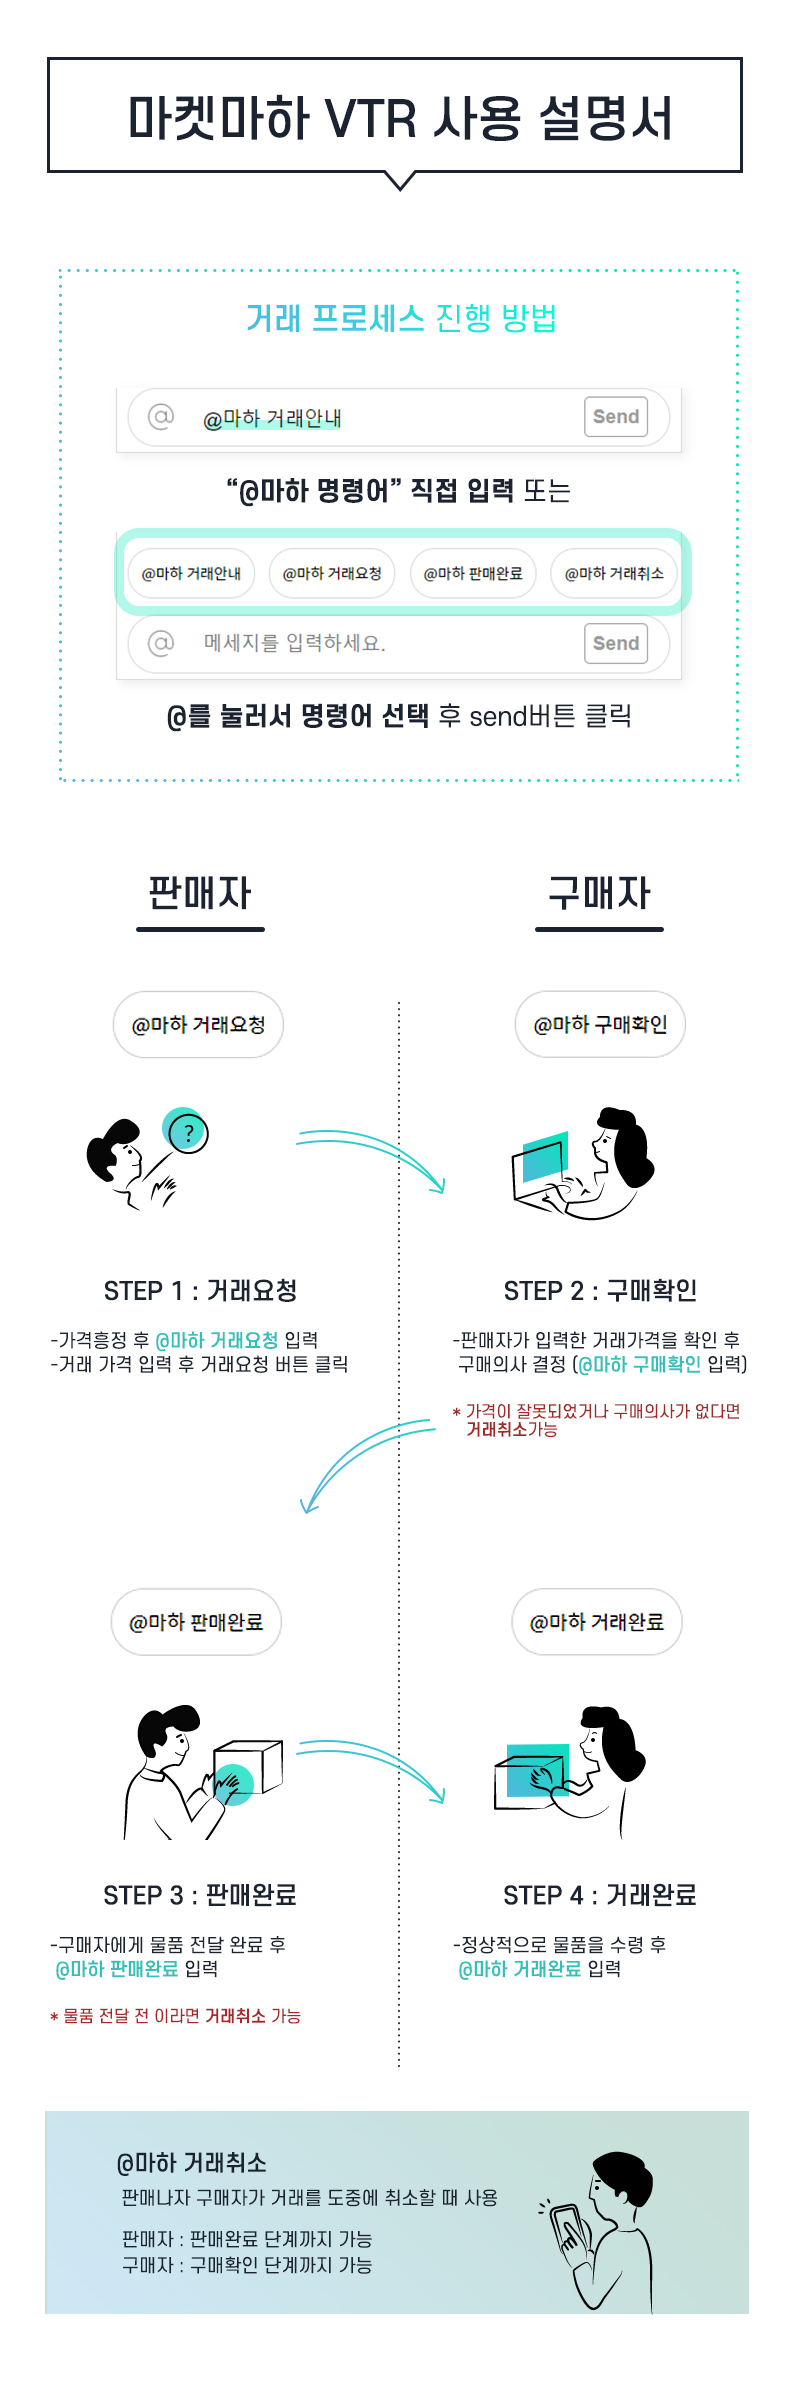
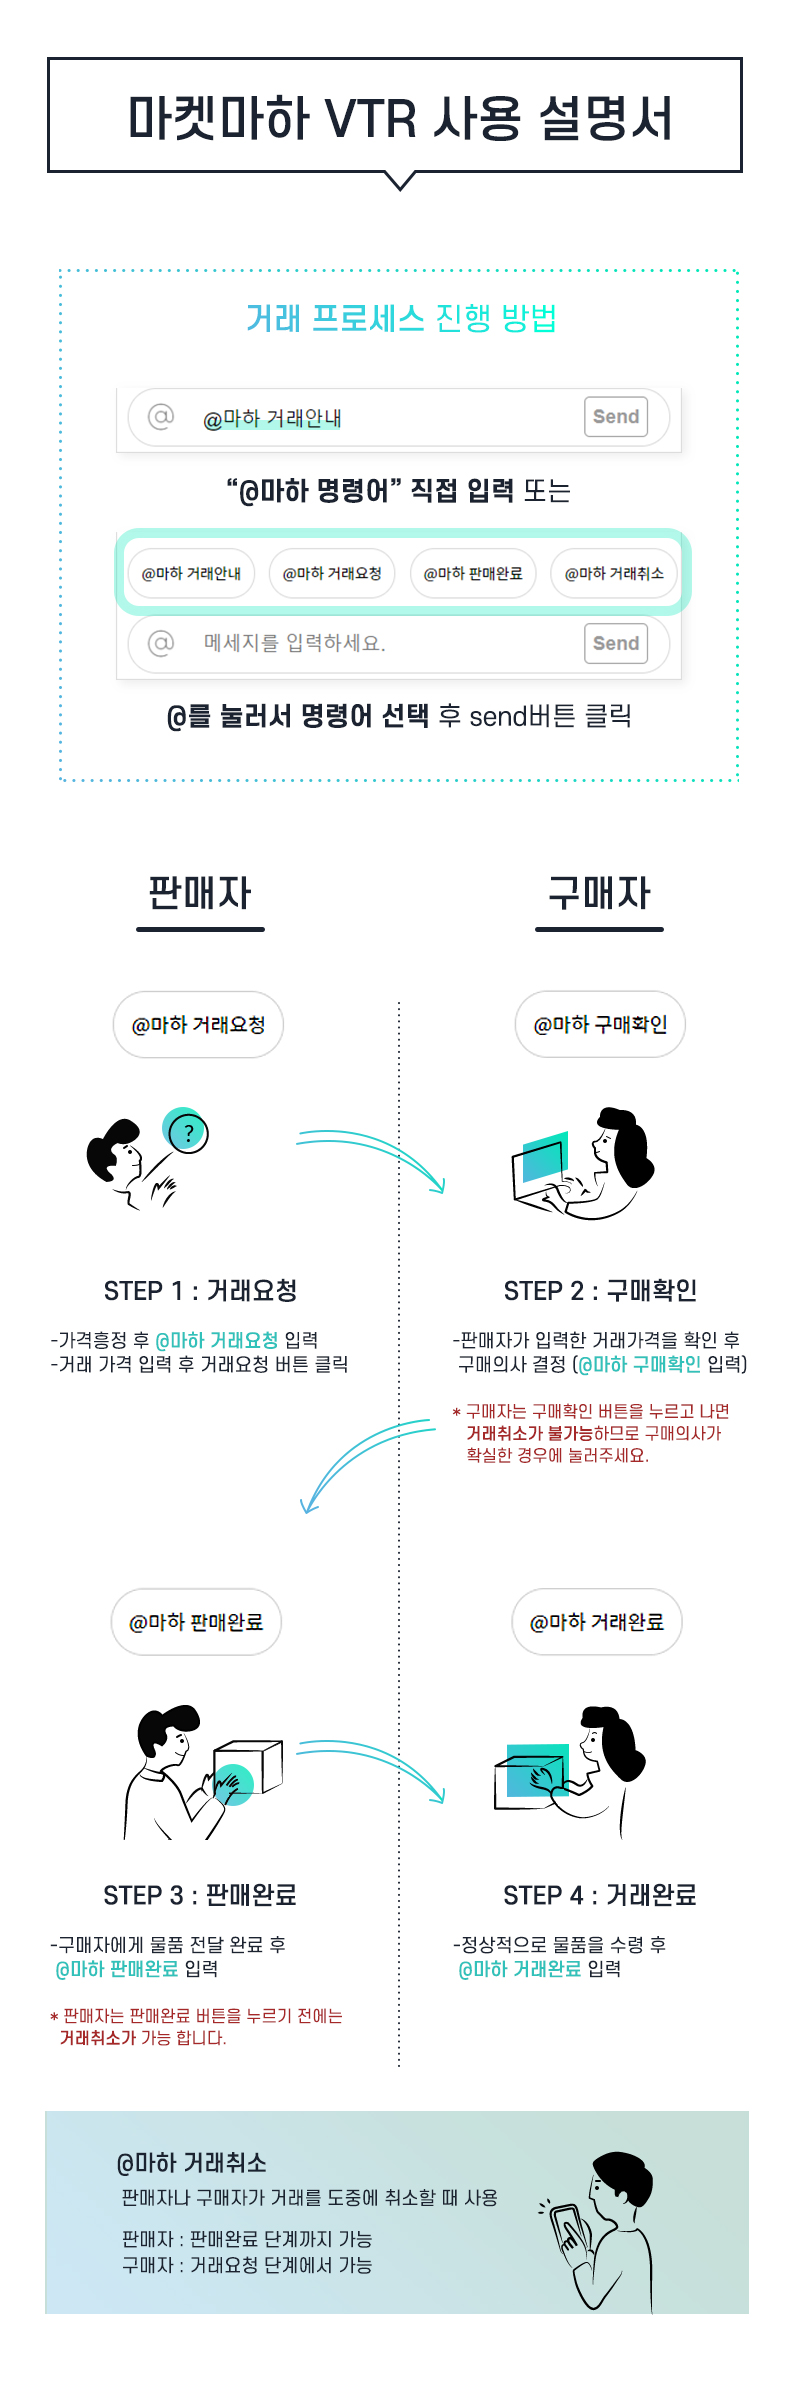
가격입력 10자제한, 그외 QA 적용

diff --git a/public/js/websocket.js b/public/js/websocket.js
@@ -205,6 +205,8 @@ socket.on("trade_seller", function(data) {
                         return;  
                     } else if(tradeStatus !== "4") {            
                         dom += '판매자가 거래취소를 요청 중입니다.<br>잠시만 기다려주세요.';   
+                    } else {
+                        return;
                     }
                     break;
                 case 5.1:
@@ -221,7 +223,7 @@ socket.on("trade_seller", function(data) {
                 case 1:    
                     if(tradeStatus === "50" && socket.isTradeStep1 === undefined) {
                         dom += '거래를 시작하겠습니다.<br>먼저 거래 가격을 입력해주세요.<br>';             
-                        dom += '<input type="text" class="ipt_price" value="' + tradePrice + '"><button id="btnTransactionRequest" class="btn_chat btn_t_r">거래요청</button>';
+                        dom += '<input type="text" class="ipt_price" maxLength="10" value="' + tradePrice + '"><button id="btnTransactionRequest" class="btn_chat btn_t_r">거래요청</button>';
                         socket.isTradeStep1 = true;
                     } else if(tradeStatus === "50" && socket.isTradeStep1) {
                         dom += '거래요청을 하시고 잠시만 기다려주세요.';
@@ -247,7 +249,7 @@ socket.on("trade_seller", function(data) {
                     break;
                 case 3.1:           
                     chatUI.setTradeInfo(); 
-                    return;
+                    dom += '판매완료가 정상적으로 완료되었습니다.<br>구매자의 거래완료를 기다리는 중입니다.'
                     break;         
                 case 5:
                     if(tradeStatus == "50") {
@@ -255,7 +257,7 @@ socket.on("trade_seller", function(data) {
                     }else if(tradeStatus === "4") {               
                         dom += '거래완료 상태에서는 거래를 취소할 수 없습니다.'; 
                     } else {
-                        dom += '거래를 취소를 원하시면 아래 버튼을 눌러주세요.';   
+                        dom += '거래취소를 원하시면 아래 버튼을 눌러주세요.';   
                         dom += '<button id="btnCancelTransaction" class="btn_chat btn_c_t">거래취소</button>';    
                     }
                     break;
@@ -316,11 +318,8 @@ socket.on("trade_buyer", function(data) {
                     break;
                 case 5:    
                     if(tradeStatus == "2") {
-                        dom += '구매자가 거래취소를 요청 중입니다.<br>잠시만 기다려주세요.';
-                    // } else if(tradeStatus === "3") {       
-                    //     return;
-                    // } else if(tradeStatus === "4") {         
-                    //     return; 
+                        // dom += '구매자가 거래취소를 요청 중입니다.<br>잠시만 기다려주세요.';
+                        return; // 구매확인 단계에서도 구매취소 못하게 막음
                     } else {    
                         return;  
                     }
@@ -364,6 +363,8 @@ socket.on("trade_buyer", function(data) {
                 case 5:    
                     if(tradeStatus == "50") {
                         dom += '취소할 거래가 아직 진행 되지 않았습니다.';      
+                    } else if(tradeStatus === "2") {       
+                        dom += '구매자는 구매완료 상태에서는 거래를 취소할 수 없습니다.'; 
                     } else if(tradeStatus === "3") {       
                         dom += '구매자는 판매완료 상태에서는 거래를 취소할 수 없습니다.'; 
                     } else if(tradeStatus === "4") {         

diff --git a/public/js/chatUI.js b/public/js/chatUI.js
@@ -123,7 +123,6 @@ var chatUI = {
             console.log(item);
             document.getElementById("tradePrice").value = item.price;
             document.getElementById("tradeStatus").value = item.status;
-            document.getElementById("vtrPriceNum").innerText = item.price;
 
             switch (item.status) {
                 case 1:
@@ -156,6 +155,8 @@ var chatUI = {
                     break;
             }
             document.getElementById("vtrCategory").innerText = categoryText;
+            document.getElementById("vtrTitle").innerText = item.title;
+            document.getElementById("vtrPriceNum").innerText = item.price;
 
         })
         .fail(function(xhr, status, error) {
@@ -213,18 +214,16 @@ var chatUI = {
         var proxyEvent= {
             "btnTransactionRequest": function() {
                 var thisDom = this;
-
                 var ipt_price = document.querySelectorAll(".ipt_price");
                 var tradePrice = parseFloat(ipt_price[ipt_price.length-1].value);
-
                 var ccCode = "MACH";
                 if(tradePrice === 0 || isNaN(tradePrice)) {
                     alert("가격을 입력해주세요.");
                     ipt_price[ipt_price.length-1].focus();
                     return;
-                } else if(thisDom.getAttribute("disabled") === "disabled") {
-                    return; // IE에서 disabled여도 클릭이 되는 이슈 존재
-                }
+                } 
+                // IE에서 disabled여도 클릭이 되는 이슈
+                if(thisDom.getAttribute("disabled") === "disabled") return;
 
                 var bodyParam = {};
                 bodyParam.itemId = itemId;
@@ -263,6 +262,8 @@ var chatUI = {
             },        
             "btnPurchaseConfirmation": function() {
                 var thisDom = this;
+                // IE에서 disabled여도 클릭이 되는 이슈
+                if(thisDom.getAttribute("disabled") === "disabled") return;
 
                 var bodyParam = {};
                 bodyParam.itemId = itemId;
@@ -295,6 +296,8 @@ var chatUI = {
             },
             "btnSalesComplete": function() {
                 var thisDom = this;
+                // IE에서 disabled여도 클릭이 되는 이슈
+                if(thisDom.getAttribute("disabled") === "disabled") return; 
 
                 var bodyParam = {};
                 bodyParam.itemId = itemId;
@@ -327,6 +330,8 @@ var chatUI = {
             },
             "btnTransactionComplete": function() {
                 var thisDom = this;
+                // IE에서 disabled여도 클릭이 되는 이슈
+                if(thisDom.getAttribute("disabled") === "disabled") return; 
 
                 var bodyParam = {};
                 bodyParam.itemId = itemId;
@@ -360,8 +365,9 @@ var chatUI = {
             "btnCancelTransaction": function() {
                 var thisDom = this;
                 var prevDom = thisDom.previousSibling;
-                console.log(prevDom.tagName)
                 if(prevDom.tagName !== undefined && prevDom.tagName.toLowerCase() === "button") prevDom.setAttribute("disabled", "disabled");
+                // IE에서 disabled여도 클릭이 되는 이슈
+                if(thisDom.getAttribute("disabled") === "disabled") return; 
 
                 var bodyParam = {};
                 bodyParam.itemId = itemId;

diff --git a/views/vtr.html b/views/vtr.html
@@ -15,14 +15,14 @@
             <p class="status_text"><span id="statusText"></span> 상태</p>
             <h1 class="cf">
                 <div class="vtr_category" id="vtrCategory"><%=category%></div>
-                <div class="vtr_title ellipse"><%=title%></div>
+                <div class="vtr_title ellipse" id="vtrTitle"><%=title%></div>
                 <div class="vtr_price" id="vtrPrice"><span id="vtrPriceNum"><%=price%></span> <%=cryptoCurrencyCode%></div>
             </h1>
         </header>
         <div class="content" id="content">
             <div>
-                my Name <input type="text" id="nickname" readonly/><br>
-                other Name <input type="text" id="othername" readonly/> 
+                My ID: <input type="text" id="nickname" readonly/><br>
+                Partner: <input type="text" id="othername" readonly/> 
             </div>
  
             <div class="chat_dim" id="chatDim"></div>

diff --git a/public/css/vtr.css b/public/css/vtr.css
@@ -43,7 +43,7 @@ button{border: none; cursor: pointer; background-color: #fff;}
 .cf:after{display: block; content: ''; clear: both;}
 .ellipse{overflow: hidden; text-overflow: ellipsis; white-space: nowrap; word-break: normal}
 .chat_wrap{position: relative; min-width:320px; max-width: 600px; height: 100%; margin: auto; box-sizing: border-box; border: 1px solid #d9d9d9;}
-.header{height: 80px; border-bottom: 1px solid #d9d9d9; box-sizing: border-box;}
+.header{height: 80px; box-sizing: border-box; border-style: solid; border-image: linear-gradient(45deg, #01c9ca 0%, #3886FF 100%); border-image-slice: 1; border-width: 1px; border-top: none; border-left: none; border-right: none;}
 .header .status_text{margin: 10px 0; padding: 0 20px;}
 .header h1{padding: 0 20px; font-size: 16px; font-weight: 400;}
 .header h1 > div{float: left;}
